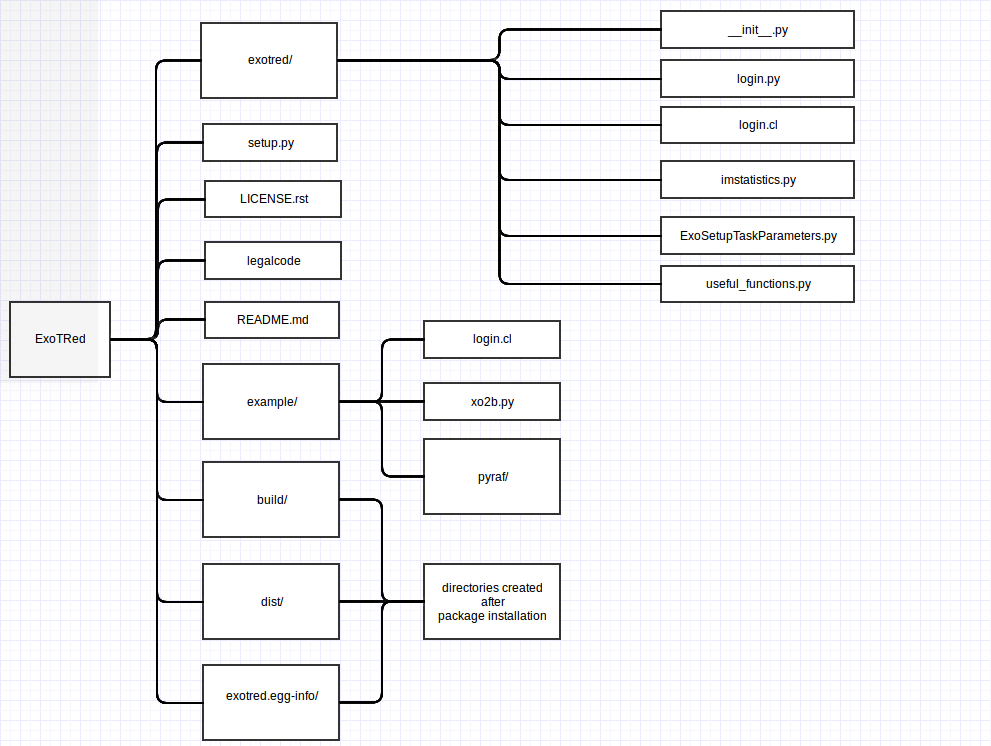
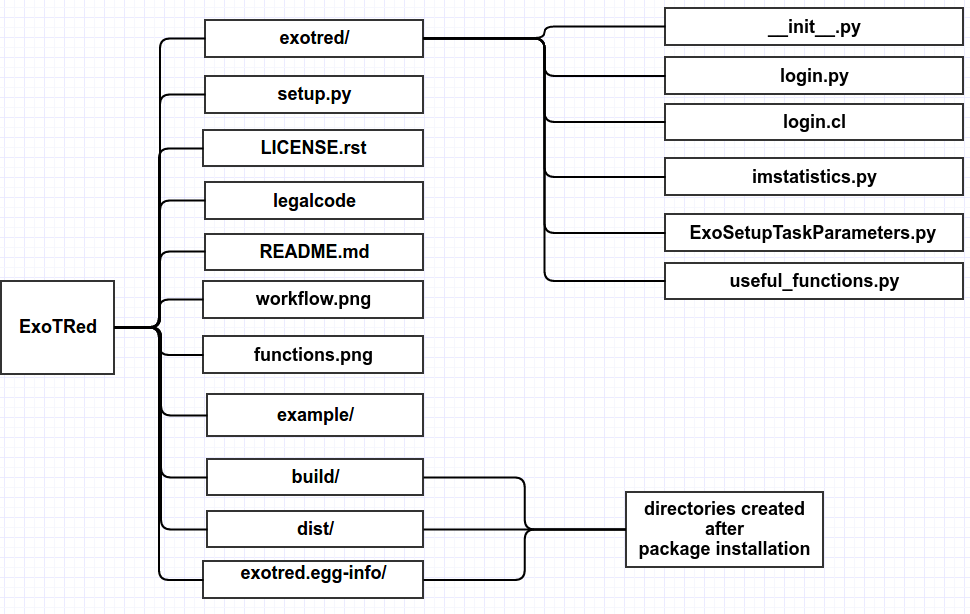
update workflow

diff --git a/README.md b/README.md
@@ -1,15 +1,18 @@
-# ExoTRed
+## ExoTRed
 Exoplanetary Task Reduction, ExoTRed, is a python/pyraf package to reduce, calibrate and analysis data from observations of exoplanets.
 ___
+
 ## Functions:
 
 ![functions](./functions.png)
 ___
 
+## File Structure
+
 ![workflow](./workflow.png)
 ___
 
-Installation:
+## Installation:
 
 Under astroconda environment (see more [here][astrconda] to install astroconda), do:
 
